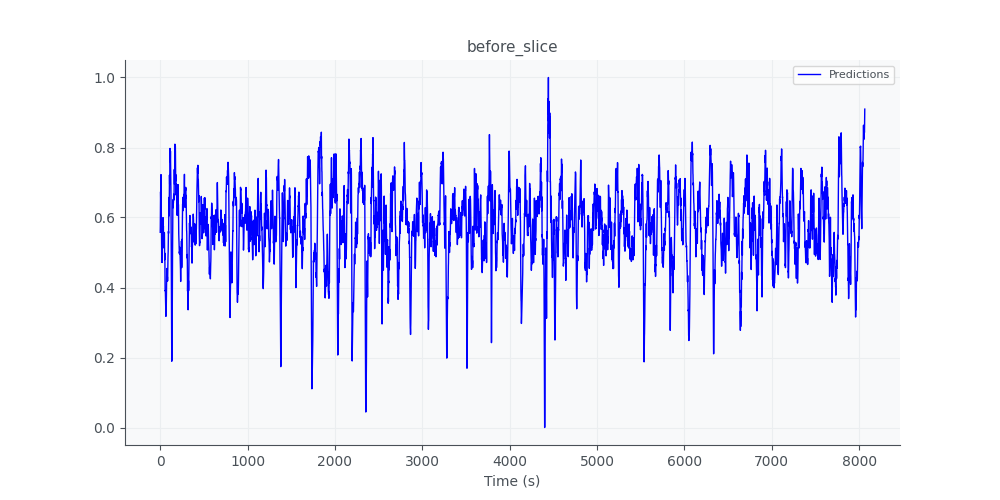
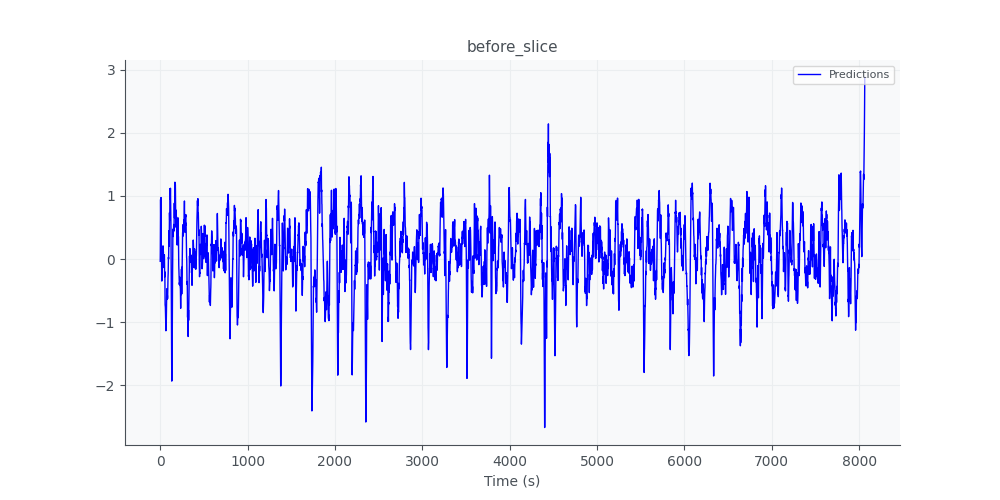
Better EmotionNet

diff --git a/dataloaders/DEAP_dataloader.py b/dataloaders/DEAP_dataloader.py
@@ -47,6 +47,8 @@ class DEAPDataLoader(DataLoader):
         print("Moving average filtering...")
         self.data["ppg"] = self.data["ppg"].apply(lambda x: self.moving_average_filter(x))
         plot_signal(self.data["ppg"].iloc[PLOT_DEBUG_INDEX], "moving_average_filtered")
+
+
         
         # NOISE_THRESHOLD = 0.002
         # print("plotting good and bad signals...")
@@ -70,17 +72,21 @@ class DEAPDataLoader(DataLoader):
 
         print("Performing min-max normalization")
         self.data = self.normalize_data(self.data)
-        
-        # TODO: for debug, split after
-        # self.data = self.slice_data(self.data)
+
+        print("Standardizing data") 
+        ppgs = self.data["ppg"].to_numpy()
+        mean, std = ppgs.mean(), ppgs.std()
+        self.data["ppg"] = self.data["ppg"].apply(lambda x: (x-mean)/std) 
+
+        print("Splitting the data")
         self.train_df, self.val_df, self.test_df = self.split_data()
+
+        print("Slicing the data")
         self.train_df = self.slice_data(self.train_df)
         self.val_df = self.slice_data(self.val_df)
         self.test_df = self.slice_data(self.test_df)
         
-        # self.train_df, (mean, std) = self.standardize_data(self.train_df)
-        # self.val_df = self.standardize_data(self.val_df, mean=mean, std=std)
-        # self.test_df = self.standardize_data(self.test_df, mean=mean, std=std)
+
 
         if WT:
             print(f"Performing wavelet transform...")
@@ -88,38 +94,34 @@ class DEAPDataLoader(DataLoader):
             self.train_df["ppg"] = self.train_df["ppg"].progress_apply(fft)
             self.val_df["ppg"] = self.val_df["ppg"].progress_apply(fft)
             self.test_df["ppg"] = self.test_df["ppg"].progress_apply(fft)
-            # self.train_df["ppg"] = self.train_df["ppg"].progress_apply(wavelet_transform)
-            # self.val_df["ppg"] = self.val_df["ppg"].progress_apply(wavelet_transform)
-            # self.test_df["ppg"] = self.test_df["ppg"].progress_apply(wavelet_transform)
         else:
             print("Skipped wavelet transform")
 
+        self.balance_data()
         print(f"Train_df length: {len(self.train_df)}")
         print(f"Val_df length: {len(self.val_df)}")
         print(f"Test_df length: {len(self.test_df)}")
+    
 
-        
+
+    def balance_data(self):
         label_counts = self.train_df["valence"].value_counts()
-        print("Count before train", label_counts)
+        print("Count before (train)", label_counts)
         target_count = label_counts.min()
 
         def balanced_sample(group):
             return group.sample(target_count, random_state=RANDOM_SEED)
 
         self.train_df = self.train_df.groupby('valence').apply(balanced_sample)
-        print("Count after train", self.train_df["valence"].value_counts())
+        print("Count after (train)", self.train_df["valence"].value_counts())
 
         label_counts = self.val_df["valence"].value_counts()
-        print("Count before val", label_counts)
         target_count = label_counts.min()
+        print("Count before (val)", label_counts)
         self.val_df = self.val_df.groupby('valence').apply(balanced_sample)
-        print("Count after val", self.val_df["valence"].value_counts())
+        print("Count after (val)", self.val_df["valence"].value_counts())
+
         
-        # print(self.train_df)
-        # mean, std = self.get_mean_std(self.train_df.copy())
-        # print(f"mean and std of train is: {mean, std}")
-        # self.train_df = self.standardize_data(self.train_df.copy())
-        # self.val_df = self.standardize_data(self.val_df.copy(), mean=mean, std=std)
 
     def load_data(self) -> pd.DataFrame:
         data_dir = os.path.join(DATA_DIR, "DEAP", "data")
@@ -223,7 +225,7 @@ class DEAPDataLoader(DataLoader):
 
 
     def get_mean_std(self, data):
-        cat_data = np.concatenate(data["ppg"], axis=0)
+        cat_data = data["ppg"].to_numpy()
         mean, std = cat_data.mean(), cat_data.std()
         return mean, std
 
@@ -235,13 +237,9 @@ class DEAPDataLoader(DataLoader):
             print(f"Normalized DEAP mean + std: {mean, std}")
             return data
         #Standardize
-        data["ppg"] = data["ppg"].apply(lambda x: np.array(x))
-        print(f"Shape of signal is: {data['ppg'].iloc[0].shape}")
         og_mean, og_std = self.get_mean_std(data)
         print(f"Before DEAP mean + std: {og_mean, og_std}")
         data["ppg"] = data["ppg"].apply(lambda x: (x-og_mean)/og_std) 
-        mean, std = self.get_mean_std(data)
-        print(f"Normalized DEAP mean + std: {mean, std}")
         return data, (og_mean, og_std)
 
     def detrend_ppg(self, ppg_signal):
@@ -253,8 +251,8 @@ class DEAPDataLoader(DataLoader):
 
        
     def split_data(self):
-        train_df, temp_df = train_test_split(self.data, test_size=0.2, random_state=RANDOM_SEED)
-        val_df, test_df = train_test_split(temp_df, test_size=0.5, random_state=RANDOM_SEED)
+        train_df, temp_df = train_test_split(self.data, test_size=0.2, random_state=RANDOM_SEED, stratify=self.data["valence"])
+        val_df, test_df = train_test_split(temp_df, test_size=0.5, random_state=RANDOM_SEED, stratify=temp_df["valence"])
         return train_df, val_df, test_df
 
     def slice_ppg_window(self, ppg_signal,peak_index, window_size):
@@ -334,7 +332,7 @@ class DEAPDataLoader(DataLoader):
                     continue
 
                 #Remove low quality sliced that comes from low quality signal
-                if len((np.diff(np.sign(np.diff(ppg_segment))) > 0).nonzero()[0]) > 3:
+                if len((np.diff(np.sign(np.diff(ppg_segment))) > 0).nonzero()[0]) > 4:
                     # plot_signal(ppg_segment, f"debug_plots/bad_slices/slice_{i}_{row_i}")
                     continue 
                 
@@ -357,6 +355,9 @@ class DEAPDataLoader(DataLoader):
         self.labels[(valence >= 1) & (valence < 2) ] = 0 
         self.labels[(valence >= 2) & (valence < 7) ] = 1
         self.labels[(valence >= 7) & (valence <= 9) ] = 2
+        # self.labels[(valence >= 1) & (valence < 3) ] = 0 
+        # self.labels[(valence >= 3) & (valence < 6) ] = 1
+        # self.labels[(valence >= 6) & (valence <= 9) ] = 2
         return self.labels.tolist()
 
     def get_train_dataloader(self):

diff --git a/models/EmotionNetDEAP.py b/models/EmotionNetDEAP.py
@@ -48,7 +48,7 @@ class EmotionNet(nn.Module):
 
         self.CNN_block_1d = nn.Sequential(
             nn.Conv1d(
-                in_channels=3,
+                in_channels=4,
                 out_channels=32,
                 kernel_size=3),
             nn.BatchNorm1d(32),
@@ -63,25 +63,33 @@ class EmotionNet(nn.Module):
             nn.ReLU(),
             nn.MaxPool1d(kernel_size=2),
             nn.Dropout(p=dropout_p),
-            # nn.Conv1d(
-            #     in_channels=128,
-            #     out_channels=256,
-            #     kernel_size=3),
-            # nn.BatchNorm1d(256),
-            # nn.ReLU(),
-            # nn.MaxPool1d(kernel_size=2),
-            # nn.Dropout(p=dropout_p),
+            nn.Conv1d(
+                in_channels=64,
+                out_channels=128,
+                kernel_size=3),
+            nn.BatchNorm1d(128),
+            nn.ReLU(),
+            nn.MaxPool1d(kernel_size=2),
+            nn.Dropout(p=dropout_p),
+            nn.Conv1d(
+                in_channels=128,
+                out_channels=256,
+                kernel_size=3),
+            nn.BatchNorm1d(256),
+            nn.ReLU(),
+            nn.MaxPool1d(kernel_size=2),
+            nn.Dropout(p=dropout_p),
             nn.Flatten()
         )
          
 
         self.fc = nn.Sequential(
-                nn.Linear(2112, 512),
+                nn.Linear(1536, 512),
                 nn.ReLU(),
-                nn.Dropout(dropout_p),
+                nn.Dropout(0.2),
                 nn.Linear(512, 256),
                 nn.ReLU(),
-                nn.Dropout(dropout_p),
+                nn.Dropout(0.2),
                 nn.Linear(256, EMOTION_NUM_CLASSES))
 
         self.fc2 = nn.Sequential(

diff --git a/config.py b/config.py
@@ -35,8 +35,8 @@ RESUME_EPOCH = ""
 BATCH_SIZE = 512 # Max (for ViT): 256 | Max (for CNN): 64
 N_EPOCHS = 500
 LR = 0.001
-REG = 0
-DROPOUT_P = 0.4
+REG = 0.001
+DROPOUT_P = 0.1
 
 # ----------------------------
 
@@ -97,8 +97,8 @@ OFFLINE_VIDEO_FILE = os.path.join(VIDEO_DATASET_DIR, "test_video_real.mp4") # Of
 
 # EmotionNet Configurations
 EMOTION_NUM_CLASSES = 3  # Bad mood, neutral, good mood
-LENGTH = 140
-STEP = 140
+LENGTH = 128
+STEP = 128
 WT = True #Wheter to perform or not Wavelet Transform on PPG before feeding it to the model
 WAVELET_STEP = 16
 LSTM_HIDDEN = 256

diff --git a/utils/ppg_utils.py b/utils/ppg_utils.py
@@ -46,11 +46,12 @@ def fft(x: np.ndarray):
     if isinstance(x, list):
         x = np.array(x)
 
-    x_torch = torch.from_numpy(x)
+    x_torch = torch.tensor(x)
     res = torch.fft.fft(x_torch)
     magnitude = torch.abs(res)
     phase = torch.angle(res)
-    return torch.stack((res.real, magnitude, phase), dim=0)
+    out = torch.stack((x_torch, res.real, magnitude, phase), dim=0)
+    return out.numpy()
 
 def onsets_and_hr(x):
     features = bvp.bvp(x, 100, show=False)
